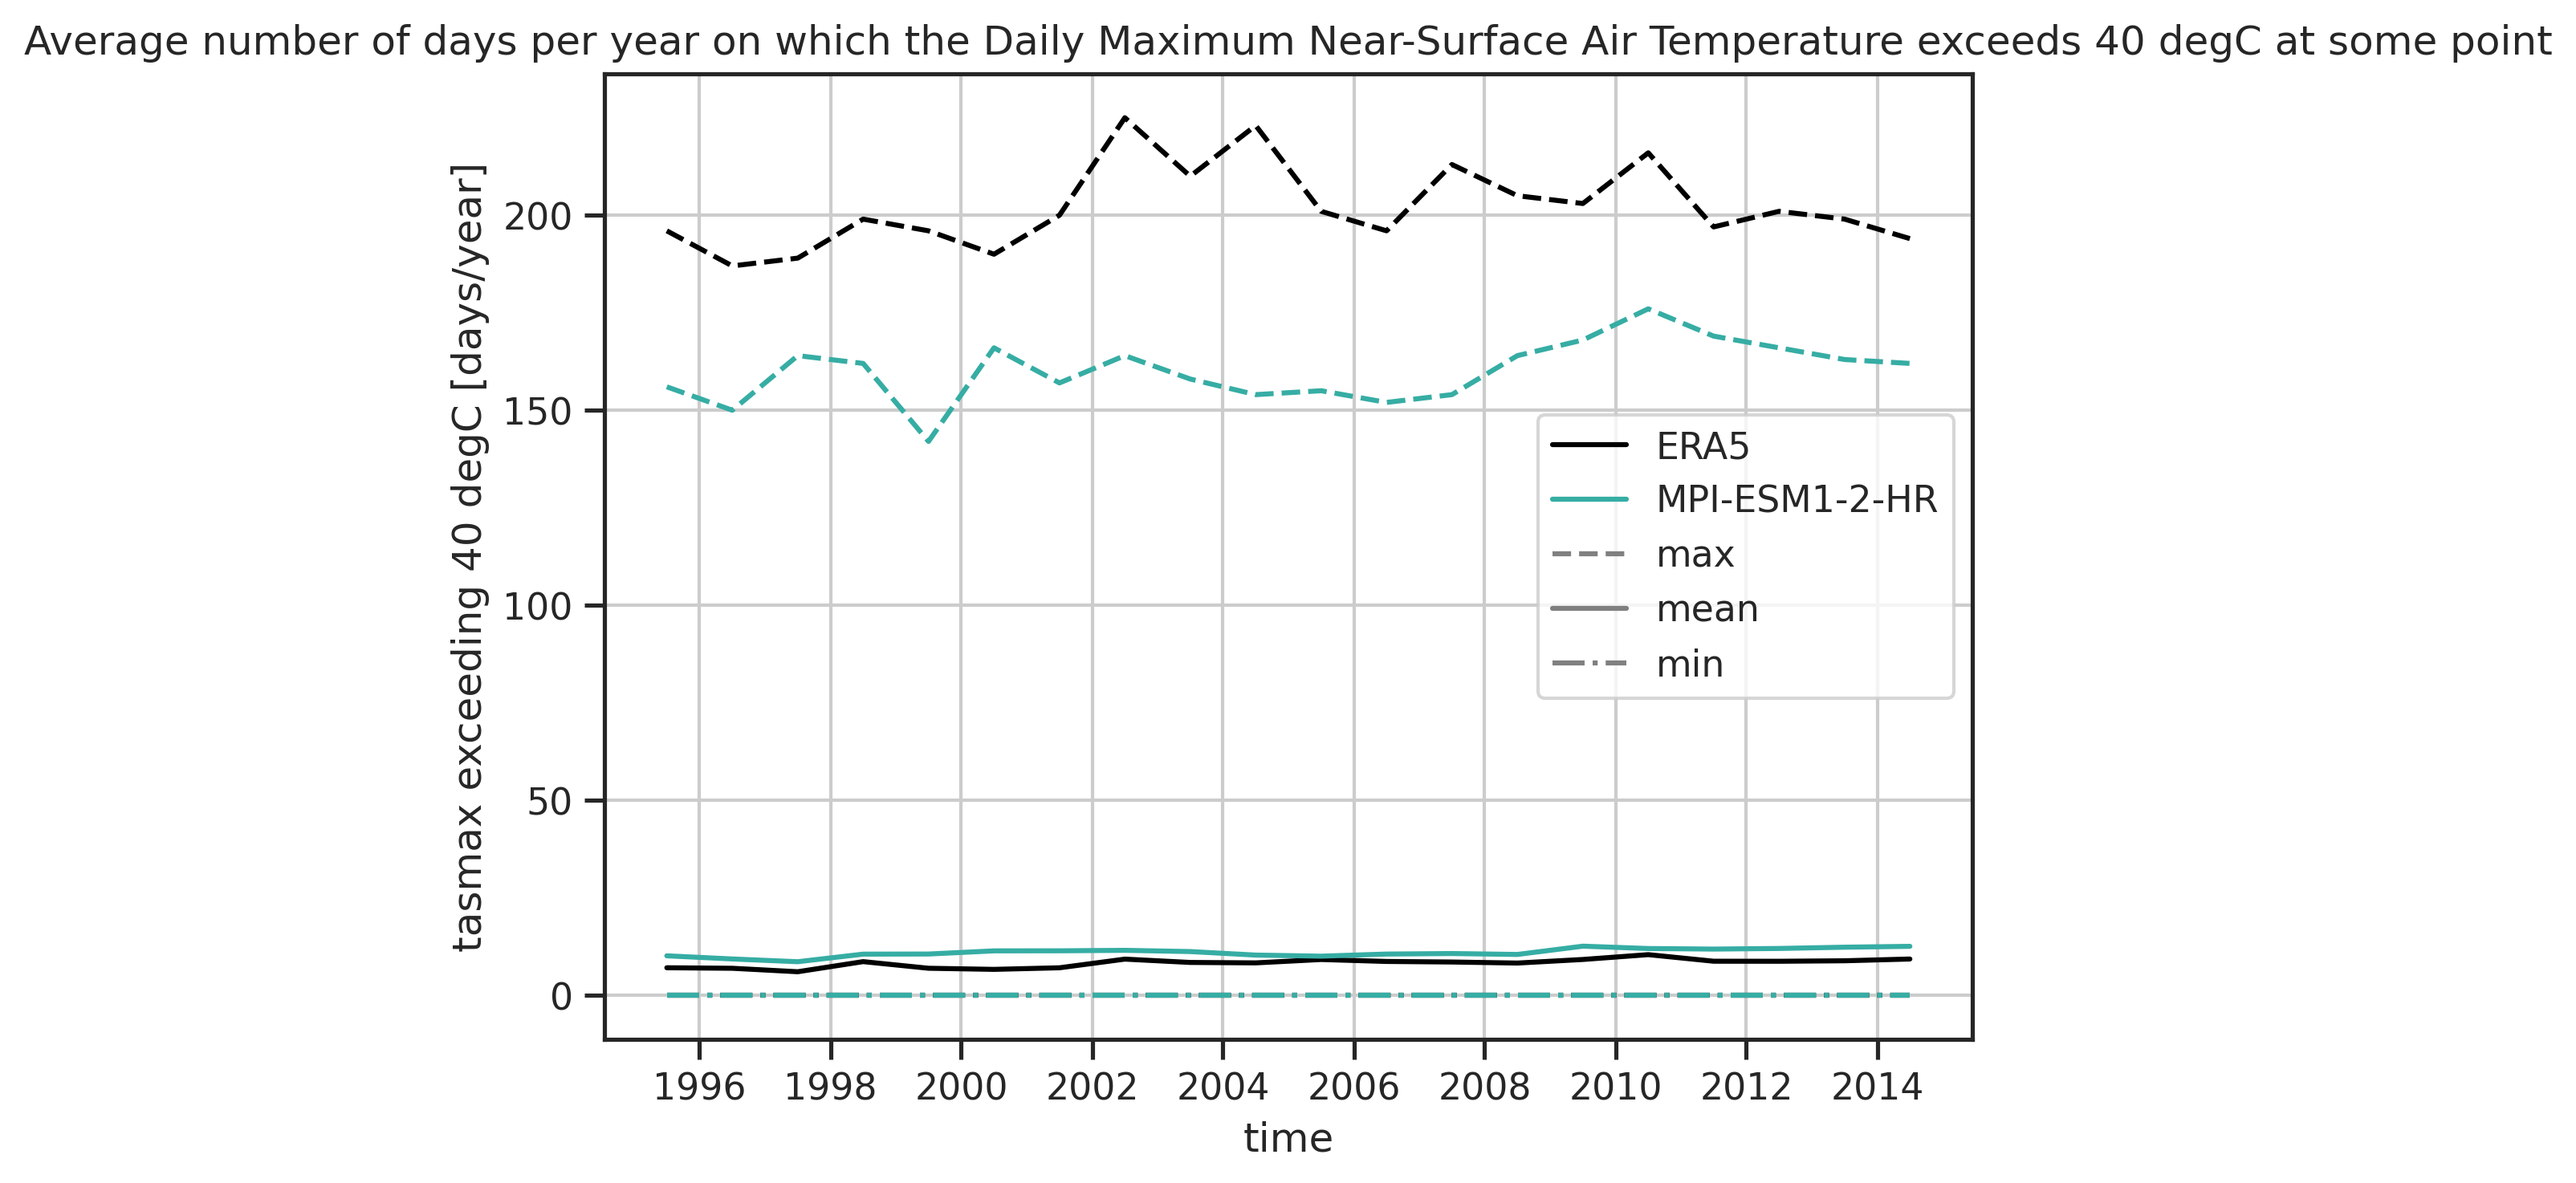
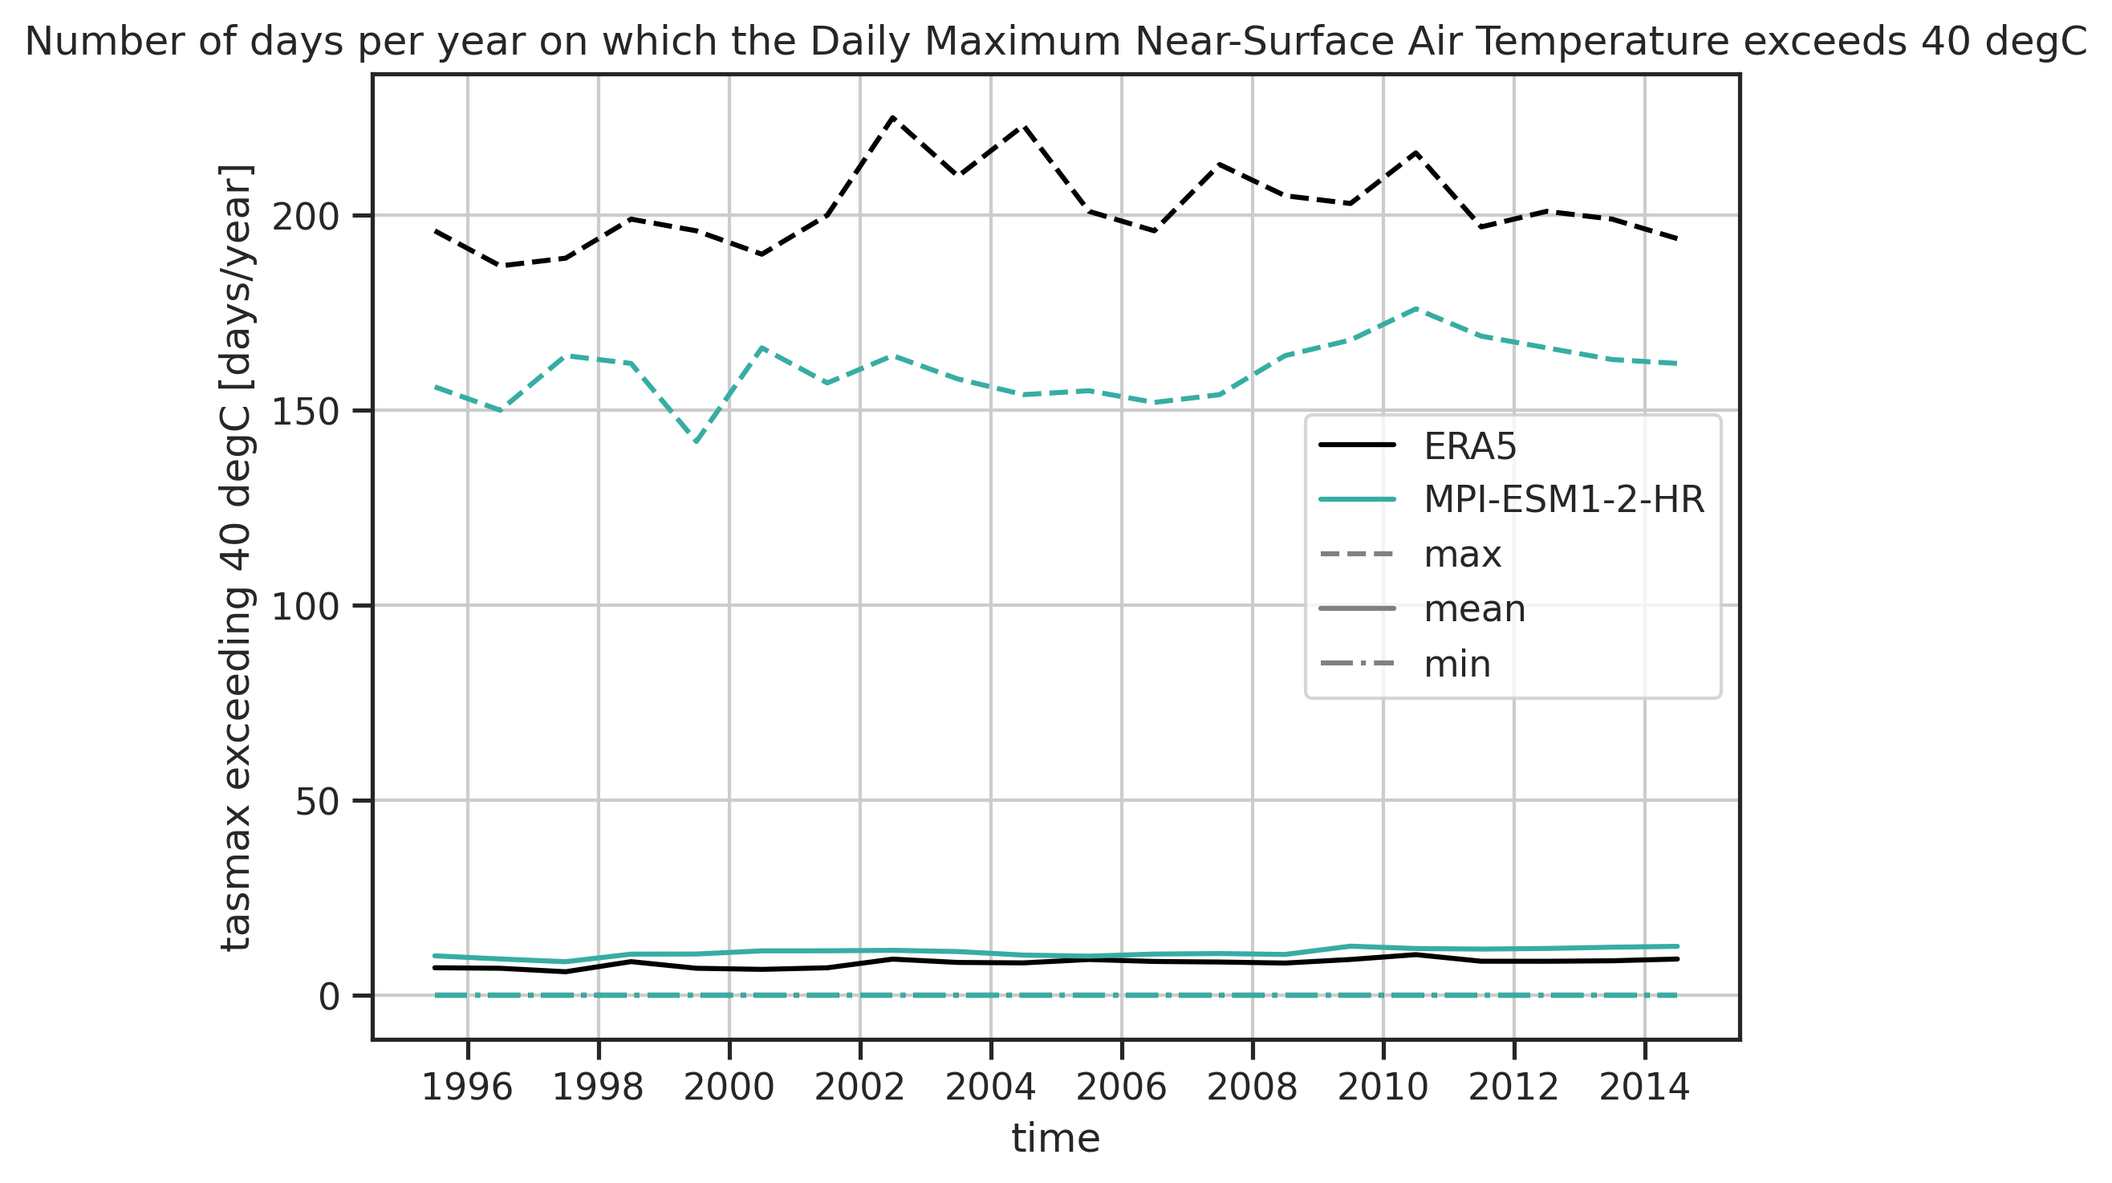
Removing additional options layer

diff --git a/esmvaltool/diag_scripts/climatic_impact_drivers/multi_datasets_with_threshold.py b/esmvaltool/diag_scripts/climatic_impact_drivers/multi_datasets_with_threshold.py
@@ -6,21 +6,16 @@ This diagnostic vizualizes Climatic Impact-Drivers that were defined
 in Elling et al. (2026) for various models.
 
 This diagnostic adapts the monitor/multi_datasets.py diagnostic adding
-pre-processing routines to allow for plots of the number of days in a
+a pre-processing routine to allow for plots of the number of days in a
 year that certain thresholds are exceeded. With this diagnostic,
 multiple datasets can be visualized in a single plot.
 
-Plot types can be specified with the recipe option 'plots' and pre-
-processing options can be accessed with the recipe option 'options'.
+Plot types can be specified with the recipe option 'plots' and the pre-
+processing option can be called directly.
 
-Supported pre-processing options
---------------------------------
--   ``threshold_conversion``: Replace the given dataset by the count of
-                              on how many days the data exceeds a
-                              certian threshold at some point of time.
 
-    Additional options
-    ------------------
+Additional options for the recipe configuration option ``threshold_conversion``
+-----------------------------------------------------------------------------
     threshold: float
         The threshold which should be exceeded for days to add to the
         count.
@@ -312,10 +307,6 @@ matplotlib_rc_params: dict, optional
     :func:`matplotlib.rc_context` and used for all plots produced with
     this diagnostic. Note: fontsizes specified here might be overwritten
     by the plot-type-specific option ``fontsize`` (see below).
-options: dict, optional
-    Additional pre-processing options applied by this diagnostic (see
-    list above). Dictonary values are dictonaries used as options for
-    the corresponding pre-processing option.
 plots: dict
     Plot types plotted by this diagnostic (see list above). Dictionary
     keys must be elements of the list above.  Dictionary values are
@@ -342,6 +333,9 @@ savefig_kwargs: dict, optional
 seaborn_settings: dict, optional
     Options for :func:`seaborn.set_theme` (affects all plots). By
     default, uses ``{style: 'ticks'}``.
+threshold_conversion: dict, optional
+    Replace the given dataset by the count of on how many days the data
+    exceeds a certain threshold at some point of time.
 """
 
 from __future__ import annotations
@@ -387,8 +381,8 @@ class MultiDatasetsThreshold(MultiDatasets):
     """Diagnostic to plot multi-dataset plots."""
 
     @property
-    def options_settings(self) -> dict[str, dict[str, Any]]:
-        """pre-plotting settings."""
+    def threshold_conv_settings(self) -> dict[str, Any]:
+        """Threshold conversion settings."""
         default_settings_thres = {
             "threshold": np.nan,
             "inverted": False,
@@ -396,10 +390,8 @@ class MultiDatasetsThreshold(MultiDatasets):
             "operators": [],
         }
         return {
-            "threshold_conversion": {
-                "default_settings": {
-                    **default_settings_thres,
-                },
+            "default_settings": {
+                **default_settings_thres,
             },
         }
 
@@ -431,31 +423,28 @@ class MultiDatasetsThreshold(MultiDatasets):
             self.cfg["facet_used_for_labels"],
         )
 
-        # Check for options/preproc options and initialize them
-        if "options" in self.cfg:
-            self.options = self.cfg["options"]
+        # Check for preproc option and initialize it
+        if "threshold_conversion" in self.cfg:
+            self.options = self.cfg["threshold_conversion"]
         else:
             self.options = {}
 
-        for options_type, option_options in self.options.items():
-            if options_type not in self.options_settings:
+        default_settings_thres = self.threshold_conv_settings[
+            "default_settings"
+        ]
+        for key, val in default_settings_thres.items():
+            self.options.setdefault(key, val)
+
+        for option in self.options:
+            if option not in default_settings_thres:
                 msg = (
-                    f"Got unexpected options type '{options_type}' for option "
-                    f"'options', expected one of {list(self.options_settings)}"
+                    f"Got unexpected option '{option}' for option 'threshold_conversion', "
+                    f"expected only {list(default_settings_thres)}"
                 )
                 raise ValueError(msg)
-            if option_options is None:
-                option_options = {}  # noqa: PLW2901
-                self.options[options_type] = option_options
 
-            default_settings_opt = self.options_settings[options_type][
-                "default_settings"
-            ]
-            for key, val in default_settings_opt.items():
-                self.options[options_type].setdefault(key, val)
-
-        if "threshold_conversion" in self.options:
-            threshold = str(self.options["threshold_conversion"]["threshold"])
+        if "threshold_conversion" in self.cfg:
+            threshold = str(self.options["threshold"])
             self.plot_filename = config.get(
                 "plot_filename",
                 "{plot_type}_{real_name}_{dataset}_{mip}_{exp}_{ensemble}_threshold_"
@@ -547,7 +536,7 @@ class MultiDatasetsThreshold(MultiDatasets):
     ):
         """Count the number of days per year on which the threshold is exceeded."""
         # Preventing that this option is executed several times
-        if cube.coords("day_of_year"):
+        if "Number of days per year" in cube.long_name:
             msg = "Reusing already aggregated cube"
             warnings.warn(msg, UserWarning, stacklevel=2)
 
@@ -559,18 +548,18 @@ class MultiDatasetsThreshold(MultiDatasets):
             if not cube.coords("year"):
                 cat.add_year(cube, "time")
 
-            for options_type in self.options:
+            if "threshold_conversion" in self.cfg:
                 # Ensuring that the data is daily, by regridding to daily
                 # timestep eventually. Note that for absolute values like
                 # temperature one should take the max (accumulated: false),
                 # and for cummulated values like total precipitation one
                 # should accumulate the values (accumulated: true).
-                if self.options[options_type]["accumulated"]:
+                if self.options["accumulated"]:
                     cube = cube.aggregated_by(
                         ["year", "day_of_year"],
                         iris.analysis.SUM,
                     )
-                elif self.options[options_type]["inverted"]:
+                elif self.options["inverted"]:
                     cube = cube.aggregated_by(
                         ["year", "day_of_year"],
                         iris.analysis.MIN,
@@ -582,10 +571,10 @@ class MultiDatasetsThreshold(MultiDatasets):
                         iris.analysis.MAX,
                     )
 
-                threshold = self.options[options_type]["threshold"]
+                threshold = self.options["threshold"]
 
                 # Count the number of days with values above or below threshold
-                if self.options[options_type]["inverted"]:
+                if self.options["inverted"]:
                     cube = cube.aggregated_by(
                         "year",
                         iris.analysis.COUNT,
@@ -606,8 +595,8 @@ class MultiDatasetsThreshold(MultiDatasets):
             cube.standard_name = None
             cube.rename(f"{var_name}geq{threshold}count")
             cube.long_name = (
-                f"Average number of days per year on which the {var_long} "
-                f"exceeds {threshold} {var_unit} at some point"
+                f"Number of days per year on which the {var_long} "
+                f"exceeds {threshold} {var_unit}"
             )
 
             cube.units = "days/year"
@@ -631,7 +620,7 @@ class MultiDatasetsThreshold(MultiDatasets):
         basename = Path(plot_path).stem
         if "threshold_conversion" in self.options:
             basename += "_threshold_" + str(
-                self.options["threshold_conversion"]["threshold"],
+                self.options["threshold"],
             )
         if option is not None:
             basename += "_spacial" + option
@@ -712,7 +701,7 @@ class MultiDatasetsThreshold(MultiDatasets):
             # Save ancestors
             dataset["ancestors"] = [filename]
 
-            if "threshold_conversion" in self.options:
+            if "threshold_conversion" in self.cfg:
                 cube = self.convert_data_thresholded(cube)
 
             if slices:
@@ -795,9 +784,9 @@ class MultiDatasetsThreshold(MultiDatasets):
 
         multi_dataset_facets = self._get_multi_dataset_facets(datasets)
 
-        if "threshold_conversion" in self.options:
-            threshold = self.options["threshold_conversion"]["threshold"]
-            operators = self.options["threshold_conversion"]["operators"] or [
+        if "threshold_conversion" in self.cfg:
+            threshold = self.options["threshold"]
+            operators = self.options["operators"] or [
                 "mean",
             ]
             for operator in operators:
@@ -806,9 +795,9 @@ class MultiDatasetsThreshold(MultiDatasets):
                 )
 
             axes.set_title(
-                "Average number of days per year on which the "
+                "Number of days per year on which the "
                 f"{multi_dataset_facets['long_name']} exceeds "
-                f"{threshold} {multi_dataset_facets['units']} at some point",
+                f"{threshold} {multi_dataset_facets['units']}",
             )
             var_label = (
                 f"{multi_dataset_facets[self.cfg['group_variables_by']]} "
@@ -832,11 +821,9 @@ class MultiDatasetsThreshold(MultiDatasets):
                 if "OBS" in str(val):
                     dataset_colors[label_dataset] = "black"
 
-            if "threshold_conversion" in self.options:
+            if "threshold_conversion" in self.cfg:
                 oldcube = cube
-                operators = self.options["threshold_conversion"][
-                    "operators"
-                ] or ["mean"]
+                operators = self.options["operators"] or ["mean"]
 
                 for operator in operators:
                     cube = area_statistics(oldcube, operator=operator)
@@ -964,7 +951,7 @@ class MultiDatasetsThreshold(MultiDatasets):
 
         # Plot data
         cube = dataset["cube"]
-        if "threshold_conversion" in self.options:
+        if "threshold_conversion" in self.cfg:
             cube = cube.collapsed("time", iris.analysis.MEAN)
         plot_kwargs = self._get_plot_kwargs(plot_type, dataset, bias=bias)
         plot_kwargs.update(additional_plot_kwargs)
@@ -1003,8 +990,8 @@ class MultiDatasetsThreshold(MultiDatasets):
         cubes: dict[str, Cube] = {
             self._get_label(d): d["cube"] for d in datasets
         }
-        if "threshold_conversion" in self.options:
-            operators = self.options["threshold_conversion"]["operators"]
+        if "threshold_conversion" in self.cfg:
+            operators = self.options["operators"]
             # for operator in operators:
             cubes_threshold: dict[str, dict[str, Cube]] = {
                 operator: {
@@ -1015,14 +1002,14 @@ class MultiDatasetsThreshold(MultiDatasets):
             }
 
         cube_0 = datasets[0]["cube"]
-        if "threshold_conversion" in self.options:
+        if "threshold_conversion" in self.cfg:
             cube_0 = area_statistics(cube_0, operator="mean")
         coord_name = cube_0.coord(dim_coords=True).name()
         var_attrs = {
             n: datasets[0][n] for n in ("short_name", "long_name", "units")
         }
 
-        if "threshold_conversion" in self.options:
+        if "threshold_conversion" in self.cfg:
             for operator in operators:
                 netcdf_path = self._get_netcdf_path(plot_path, option=operator)
                 io.save_1d_data(
